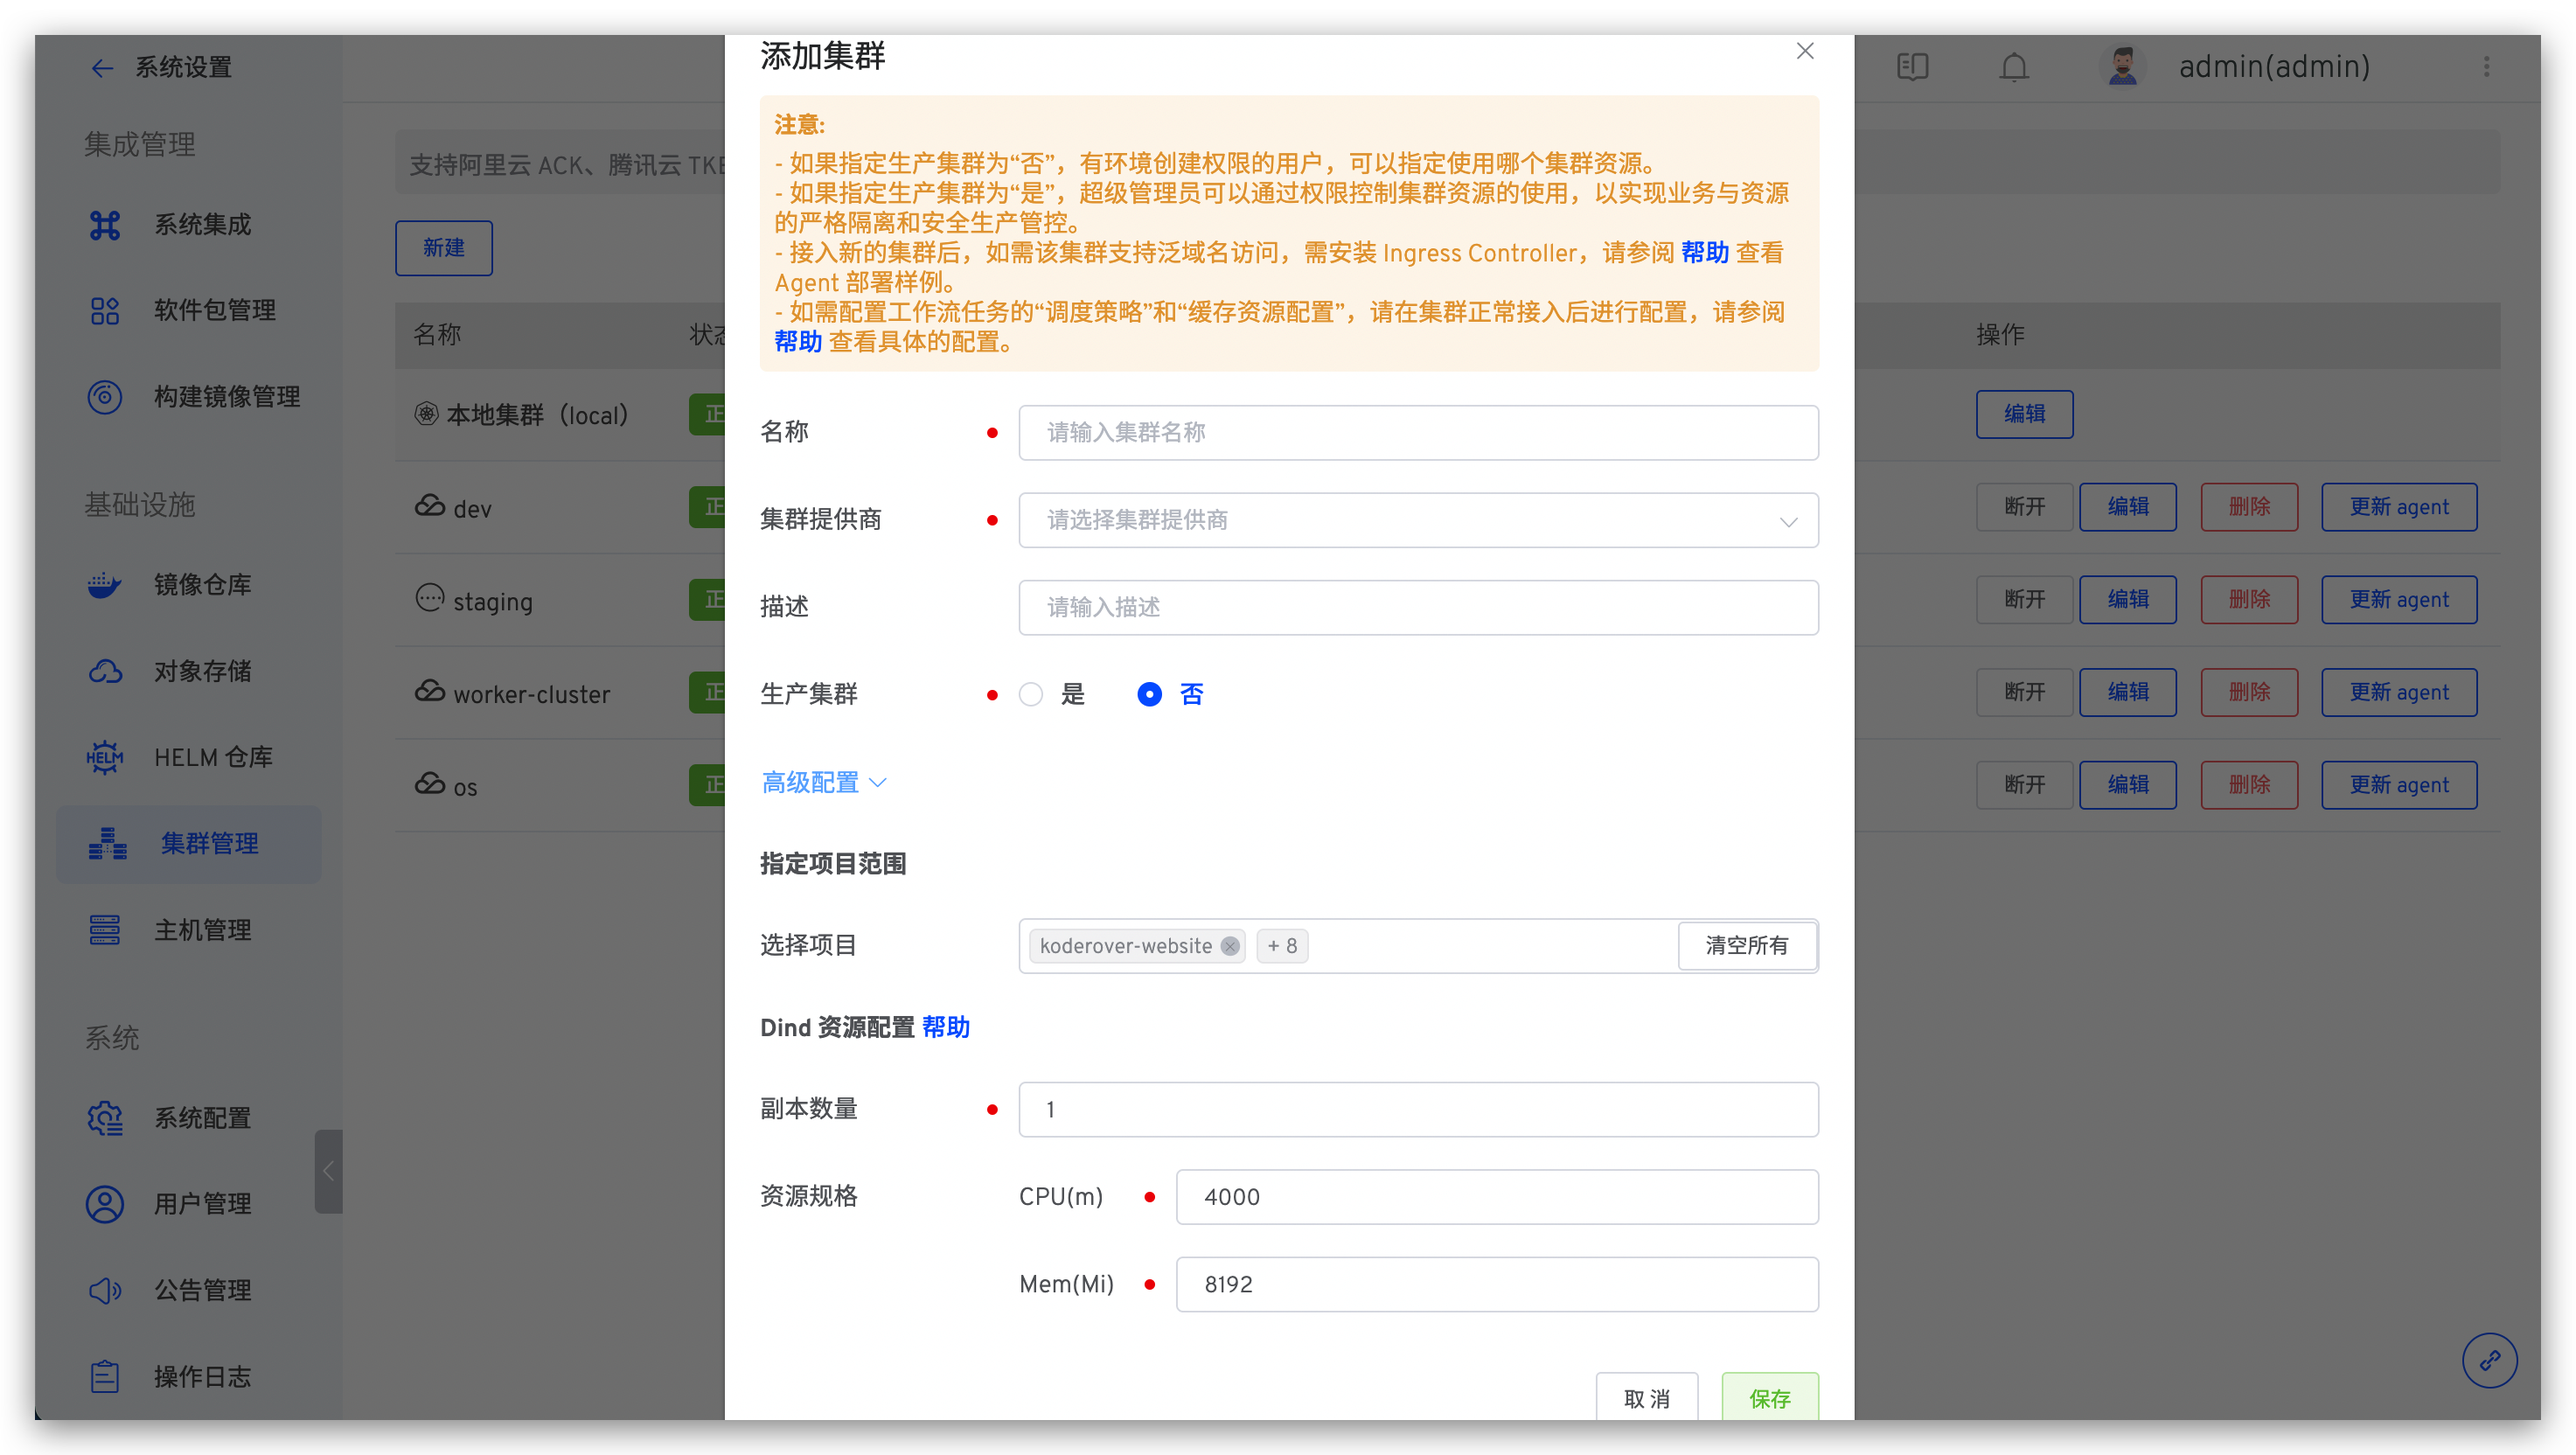
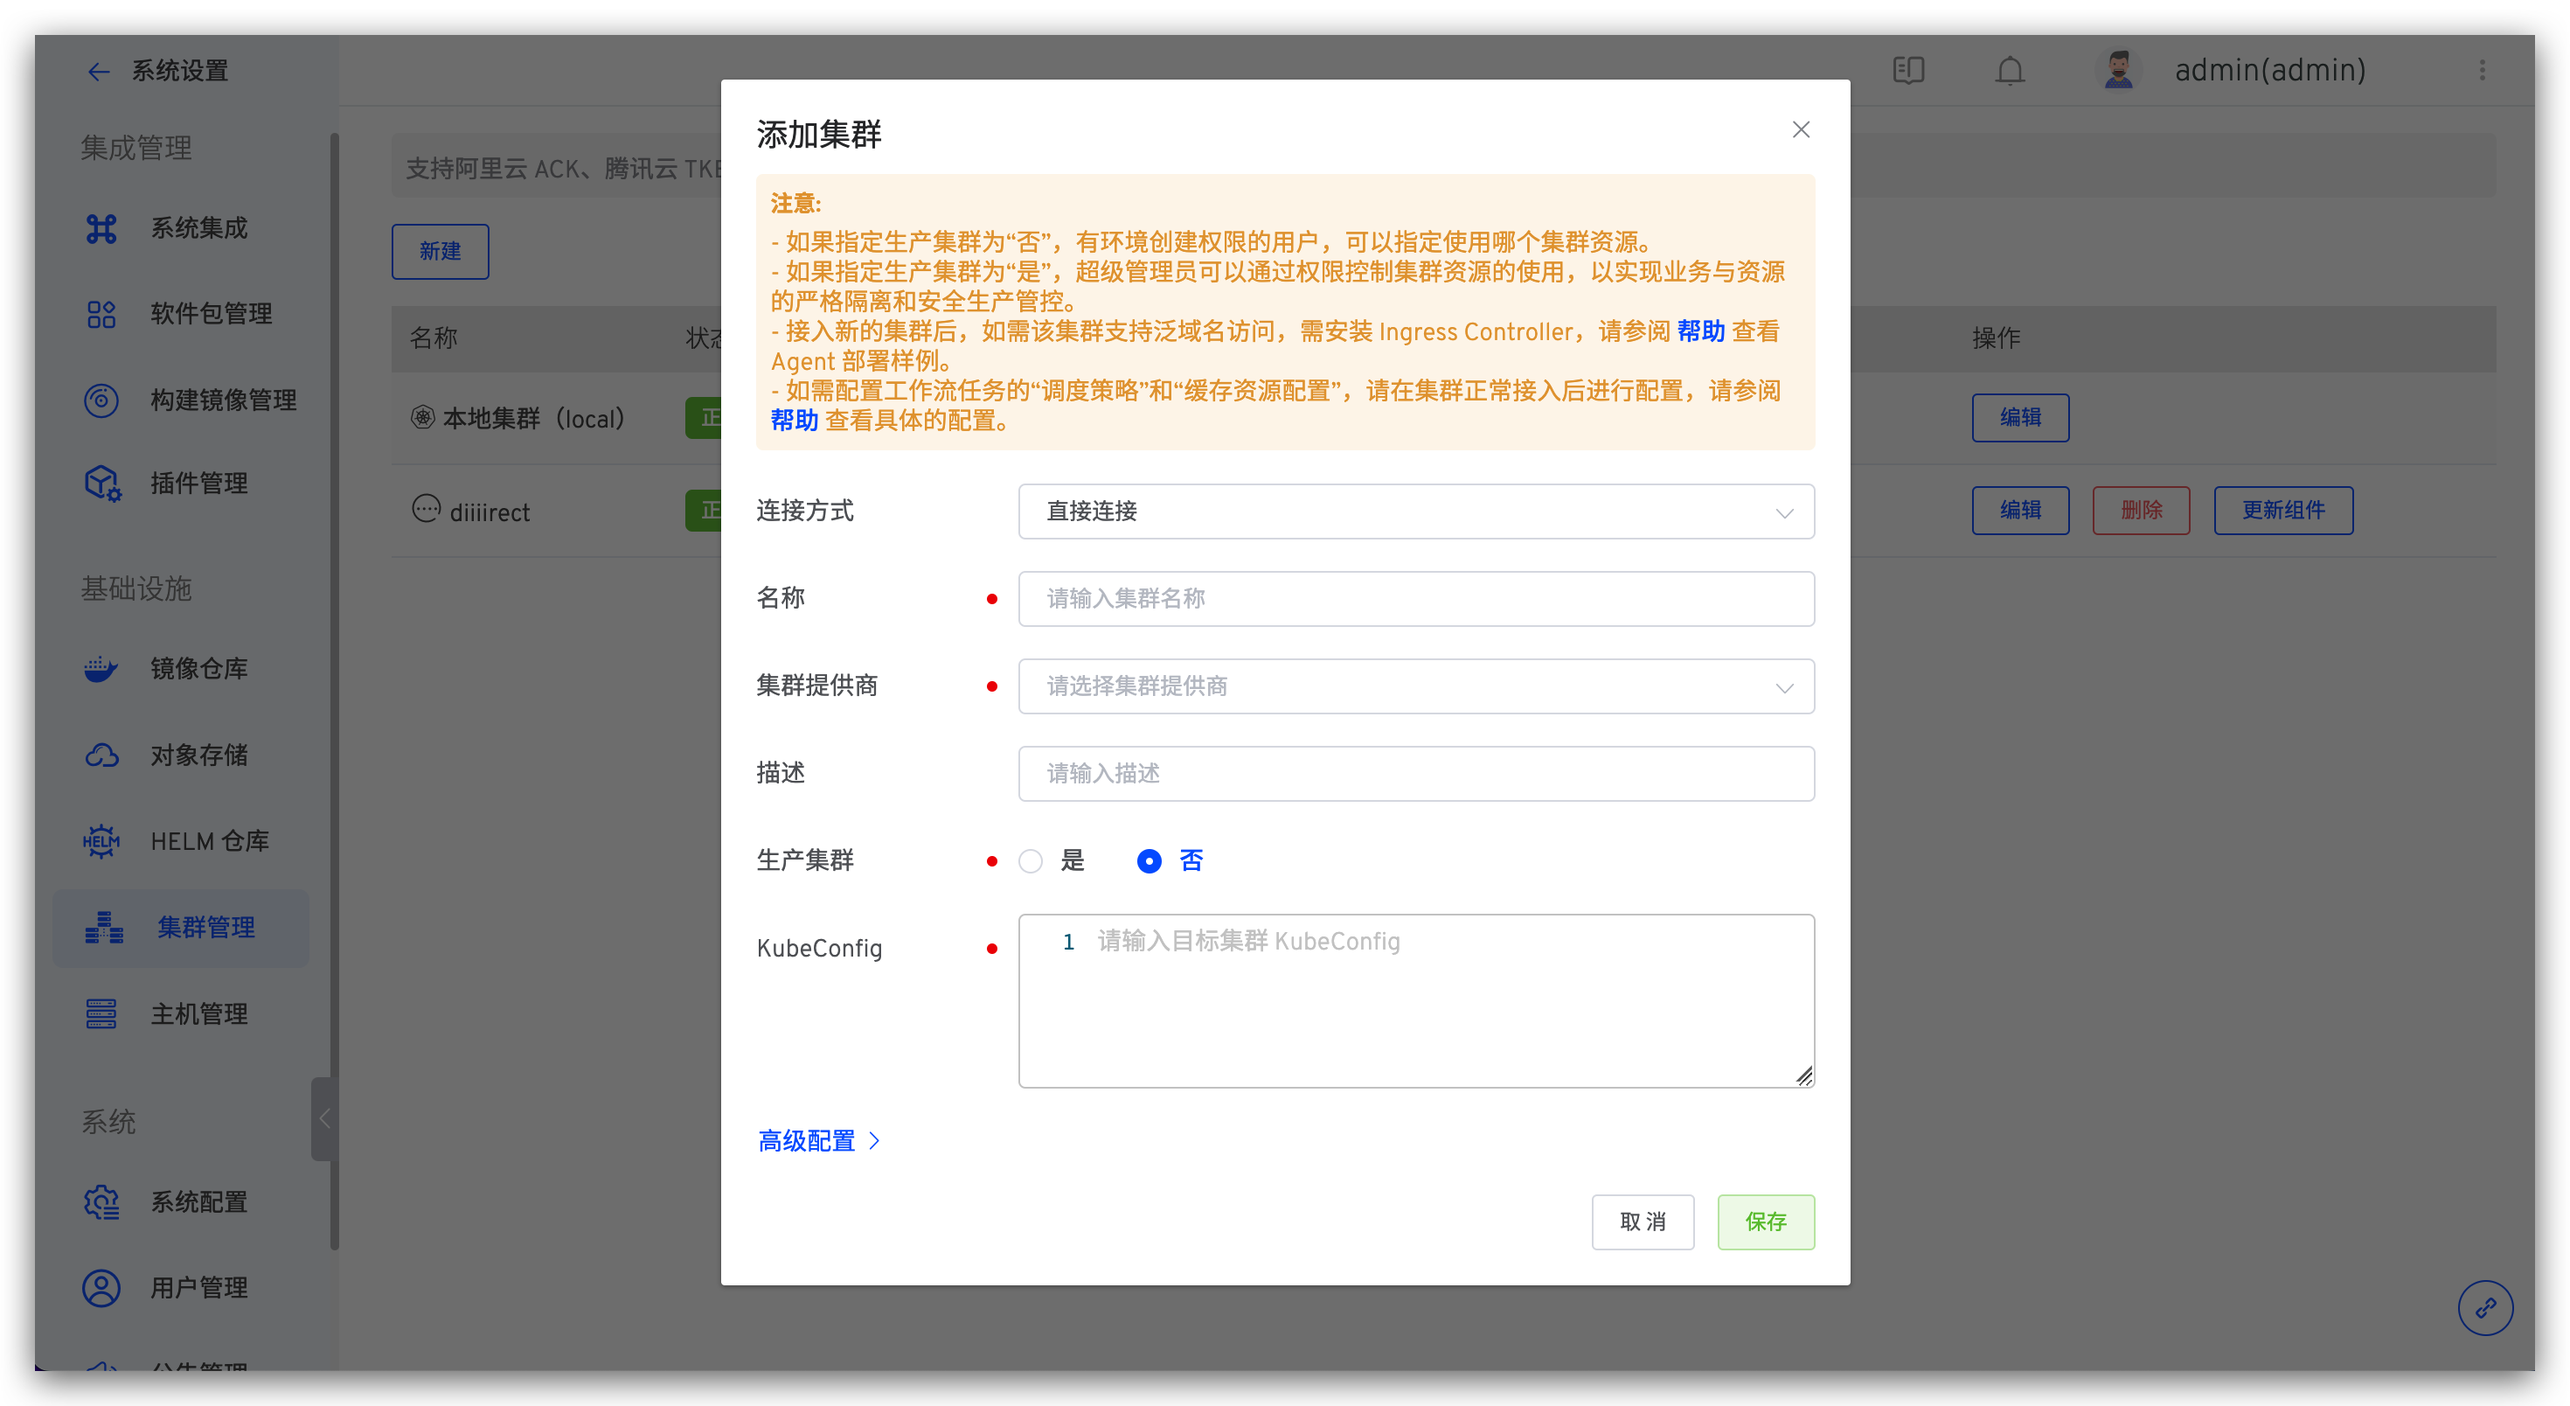
support connect K8s Cluster by KubeConfig

diff --git a/dev/12.系统设置/14.cluster_manage.md b/dev/12.系统设置/14.cluster_manage.md
@@ -12,35 +12,44 @@ permalink: /dev/pages/cluster_manage/
 需要保证添加的集群可以访问到 Zadig 所在的集群
 :::
 
-第 1 步：点击 `系统设置` -> `集群管理` -> `新建`：
+访问 `系统设置` -> `集群管理`，点击 `新建` 添加集群。
 
 ![cluster](./_images/cluster_add.png)
 
 参数说明：
 
+- `连接方式`：支持`代理连接`和`直接连接`两种方式，具体操作请参考 [代理连接方式](#代理连接)、[直接连接方式](#直接连接)。
 - `名称`：集群名称只支持小写字母、数字和中划线。
 - `集群提供商`：该集群的提供商信息。
 - `描述`： 该集群的用途描述信息。
 - `生产集群`：
   - 如果指定生产集群为「否」，有环境创建权限的用户，可以指定使用哪个集群资源。
   - 如果指定生产集群为「是」，超级管理员可以通过权限控制集群资源的使用，以实现业务与资源的严格隔离和安全生产管控。
+- `KubeConfig`：待接入集群的 KubeConfig 配置文件内容，使用`直接连接`方式时需填写。
 
 创建集群时可设置高级配置，也可以在创建完成后再修改。高级配置说明：
 - `指定项目范围`：指定该集群可被哪些项目使用，默认为创建集群时，系统当前全部项目。
 - `Dind 资源配置`：设置 Dind 的资源规格，参考 [Dind 资源配置](/dev/pages/cluster_manage/#dind-资源配置)。
 
-第 2 步：执行 Agent 安装脚本，如图所示：
+### 代理连接
+> 在外接集群中安装 Agent，适用场景：外接集群可以访问 Zadig 所在的集群。
+
+选择`代理连接`方式填写集群基本信息后，在待接入集群中执行 Agent 安装脚本，如图所示：
 
 ![cluster_add_kubectl](./_images/cluster_add_kubectl.png)
 
-第 3 步：执行脚本完成部署，刷新查看集群状态。
+脚本执行完毕后，刷新集群列表查看集群状态，状态正常即为接入成功。
+
+### 直接连接
+> 在 Zadig 系统中配置外接集群的 KubeConfig，适用场景：Zadig 所在的集群可以访问外接集群。
+
+选择`直接连接`方式填写集群基本信息及外接集群的 KubeConfig 内容后保存即可。
 
 ## 基本操作
 - `断开`：断开集群操作并不会删除已经在集群中创建的环境资源，如需清理，请手动删除。集群断开后，可通过再次执行 Agent 安装脚本接入。
 - `编辑`：可修改集群的基本信息及高级配置。
 - `删除`：删除集群操作并不会删除已经在集群中创建的环境资源，如需清理，请手动删除。
 - `更新 Agent`：更新 Zadig 系统在该集群中安装的 Agent，即：koderover-agent 命名空间下的 dind、koderover-agent-node-agent 和 resource-server 资源。
-
 
 ## 设置调度策略
 点击`编辑`，可设置该集群资源的调度策略。以执行工作流任务为例对不同的策略说明如下：
